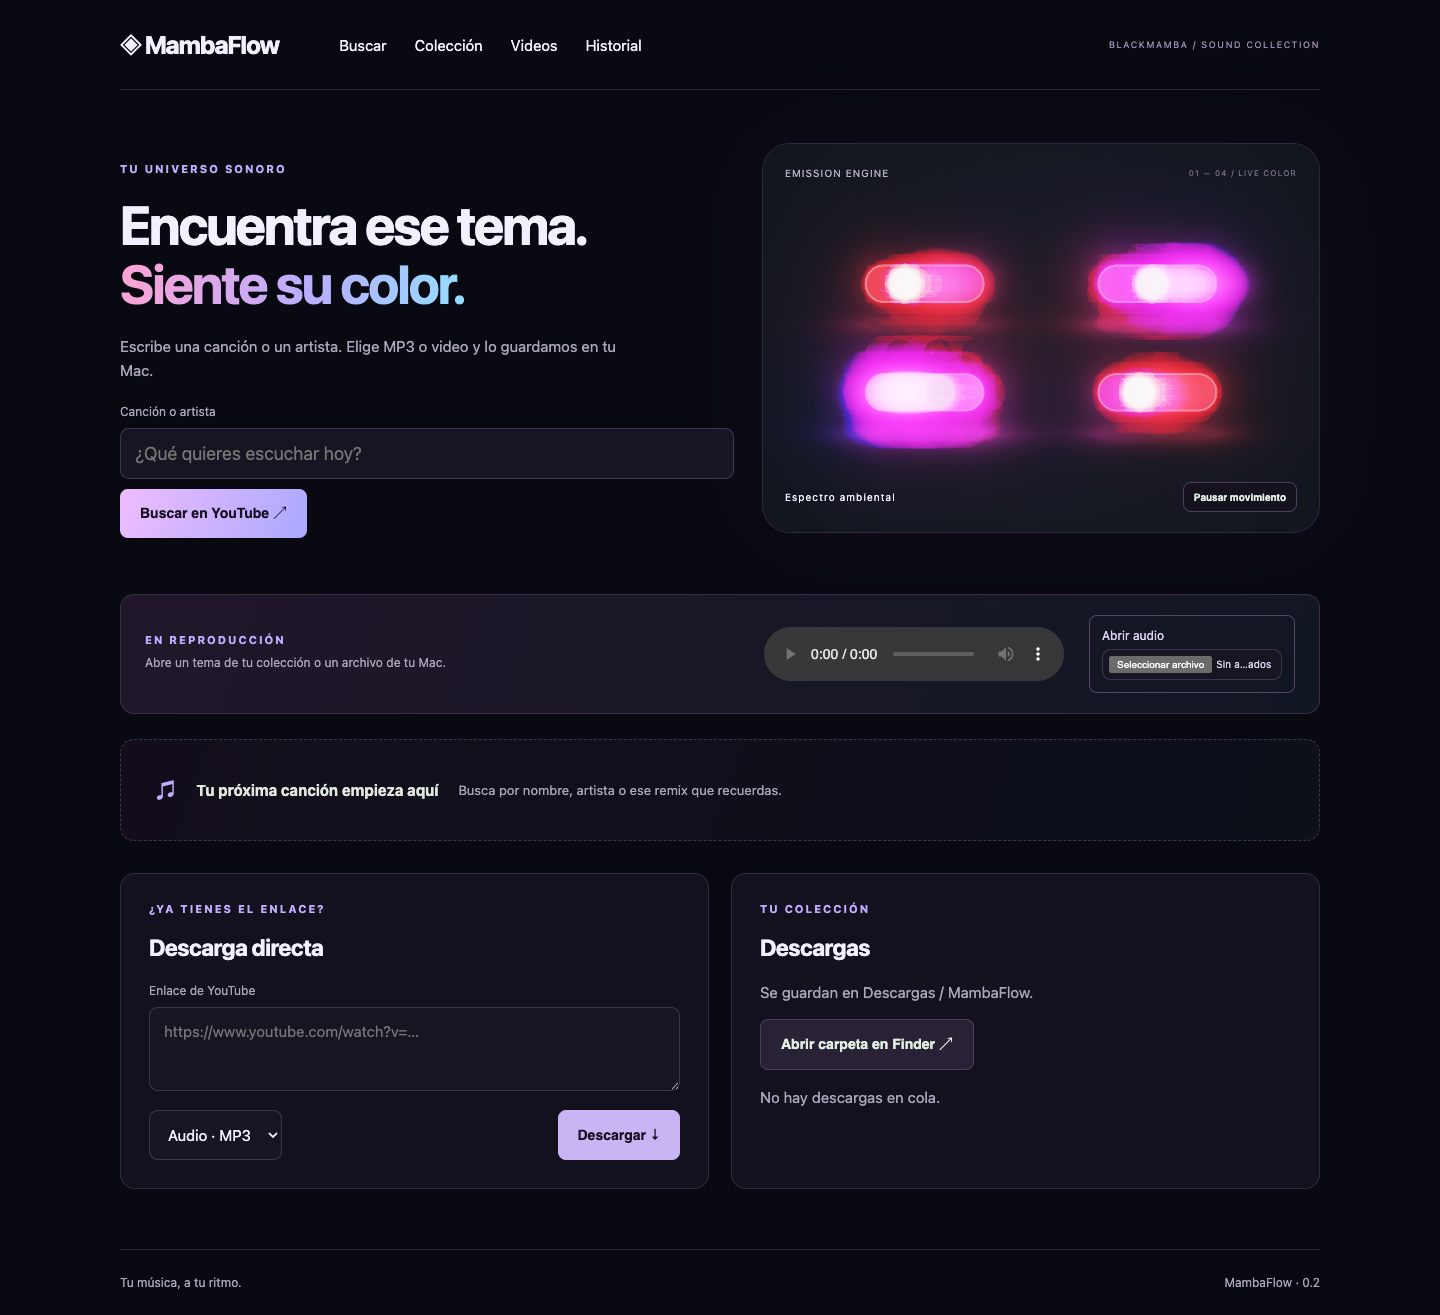
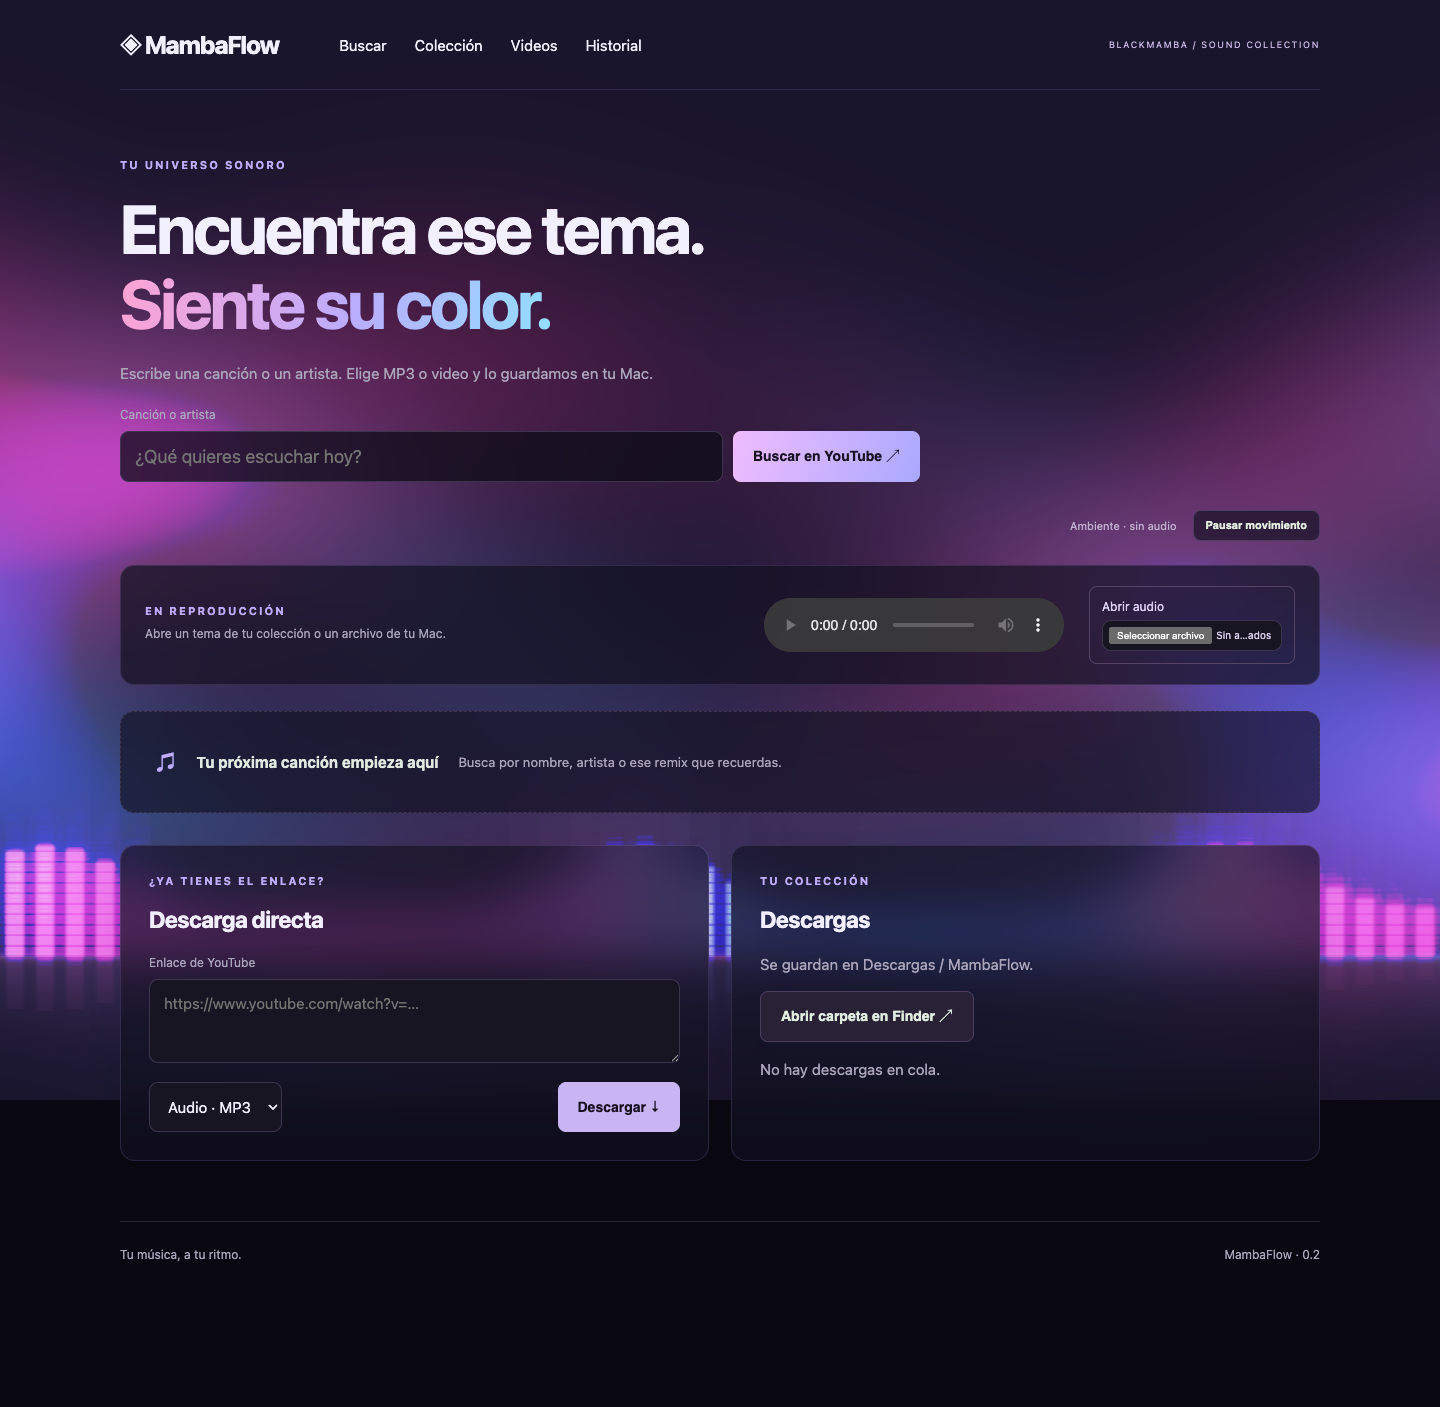
Replace visual switches with immersive spectrum background

diff --git a/apps/webui/static/emission.js b/apps/webui/static/emission.js
@@ -17,104 +17,41 @@ const extFloat=gl.getExtension('EXT_color_buffer_float');
   uniform vec2 uRes;
   uniform float uTime,uEmission,uAtmos,uReflect,uHueSpeed;
   uniform vec4 uBands,uKnobs;
-
-  float sat(float x){return clamp(x,0.,1.);}
-  float sdCapsule(vec2 p,vec2 a,vec2 b,float r){
-    vec2 pa=p-a,ba=b-a;
-    float h=clamp(dot(pa,ba)/dot(ba,ba),0.,1.);
-    return length(pa-ba*h)-r;
+  uniform float uSpectrum[48];
+  vec3 palette(float x){
+    return mix(vec3(.18,.48,1.),vec3(1.,.12,.55),.5+.5*sin(x*4.5+uTime*.12));
   }
-  float sdCircle(vec2 p,float r){return length(p)-r;}
-  float hash21(vec2 p){
-    p=fract(p*vec2(123.34,456.21));
-    p+=dot(p,p+45.32);
-    return fract(p.x*p.y);
-  }
-  vec3 hsv2rgb(vec3 c){
-    vec3 rgb=clamp(abs(mod(c.x*6.+vec3(0.,4.,2.),6.)-3.)-1.,0.,1.);
-    rgb=rgb*rgb*(3.-2.*rgb);
-    return c.z*mix(vec3(1.),rgb,c.y);
-  }
-  vec3 energyColor(vec2 p,float t,float lane){
-    float h=fract(.91 + lane*.115 + p.x*.22 + t*uHueSpeed*.15
-      + .035*sin(t*2.2+p.y*8.) + .018*sin(t*5.1-p.x*9.));
-    h = .54 + .44 * (.5 + .5 * sin(h * 6.28318));
-    return hsv2rgb(vec3(h,.88,1.15));
-  }
-
   void main(){
-    vec2 p=(vUv-.5)*vec2(uRes.x/uRes.y,1.0);
-    p.y*=-1.0;
-
-    vec3 c=vec3(.010,.014,.022);
-    float vign=1.-.36*dot(p,p);
-    c*=clamp(vign,.40,1.0);
-
-    vec2 centers[4]=vec2[4](
-      vec2(-.30,.14),vec2(.30,.14),vec2(-.30,-.14),vec2(.30,-.14)
-    );
-
-    for(int i=0;i<4;i++){
+    vec2 uv=vUv;
+    vec3 col=vec3(.013,.010,.030);
+    float energy=dot(uBands,vec4(.25));
+    // Broad drifting ribbons: light surrounds the content rather than becoming a control.
+    for(int i=0;i<3;i++){
       float fi=float(i);
-      vec2 q=p-centers[i];
-      float e=uBands[i];
-      float knob=uKnobs[i];
-
-      vec2 a=vec2(-.105,0.),b=vec2(.105,0.);
-      float r=.047;
-      float d=sdCapsule(q,a,b,r);
-      vec3 ec=energyColor(q,uTime,fi);
-
-      float wide=exp(-max(d,0.)*14.0);
-      float aura=exp(-max(d,0.)*31.0);
-      c+=ec*(.10*wide+.19*aura)*e*uAtmos;
-
-      vec2 rp=q;
-      rp.y=(rp.y-.105)*2.8;
-      float rd=sdCapsule(rp,a,b,r*1.05);
-      float floorFall=exp(-abs(q.y-.108)*18.0);
-      c+=ec*exp(-max(rd,0.)*18.0)*floorFall*e*uReflect*.24;
-
-      float shell=1.-smoothstep(.0016,.0035,abs(d));
-      vec3 shellCol=mix(vec3(.24,.27,.33),ec,sat(e*.95));
-      c+=shellCol*shell*.46;
-
-      float inside=1.-smoothstep(-.002,.001,d);
-      float ribbon=.50+.50*sin(q.x*27.0-uTime*(2.6+fi*.31)+sin(q.y*34.+uTime)*.75);
-      float plasma=inside*e*(.60+.40*ribbon);
-      c+=ec*plasma*uEmission*.52;
-
-      float hx=mix(-.10,.105,fract(uTime*(.14+.035*fi)+fi*.19));
-      float hot=exp(-pow((q.x-hx)*12.,2.)-pow(q.y*21.,2.))*e;
-      c+=ec*hot*uEmission*.72;
-
-      float kx=mix(-.098,.098,knob);
-      vec2 kp=q-vec2(kx,0.);
-      float kd=sdCircle(kp,.0395);
-      float km=1.-smoothstep(-.001,.001,kd);
-      vec3 knobOff=vec3(.90,.91,.95);
-      vec3 knobOn=vec3(.020,.024,.034);
-      vec3 kc=mix(knobOff,knobOn,sat(knob*1.10));
-      c=mix(c,kc,km);
-      float rim=1.-smoothstep(.001,.0035,abs(kd));
-      c+=mix(vec3(.58),ec,sat(e))*rim*.36;
-
-      // Beat sparks become denser as the corresponding band gets hotter.
-      float gate=smoothstep(.56,.94,e);
-      for(int j=0;j<5;j++){
-        float fj=float(j);
-        float seed=hash21(vec2(fi*11.7+fj,19.7));
-        float ang=6.28318*hash21(vec2(fi*3.1+fj,5.1));
-        float rr=.058+.070*hash21(vec2(fi+fj,8.3));
-        vec2 sp=vec2(cos(ang),sin(ang))*rr;
-        sp.x+=mix(-.035,.035,seed);
-        float sd=length(q-sp);
-        float s=exp(-sd*720.0)*gate*(.35+.65*fract(uTime*2.4+seed));
-        c+=energyColor(sp,uTime+fj*.09,fi)*s*1.7;
-      }
+      float center=.43+.22*sin(uv.x*3.6+uTime*.16+fi*1.7);
+      float dist=abs(uv.y-center);
+      float cloud=exp(-dist*dist/(.017+energy*.008));
+      float edge=pow(abs(uv.x-.5)*2.,1.3);
+      col+=palette(uv.x+fi*.5)*cloud*(.055+.10*energy)*(.3+edge);
     }
-
-    outColor=vec4(c,1.);
+    // 48 frequency columns; reflection and bloom inherit the reference's light treatment.
+    float slot=clamp(floor(uv.x*48.),0.,47.);
+    int idx=int(slot);
+    float level=uSpectrum[idx];
+    float height=.022+level*.24;
+    float x=abs(fract(uv.x*48.)-.5);
+    float width=1.-smoothstep(.20,.38,x);
+    float baseline=.13;
+    float bar=step(baseline,uv.y)*(1.-smoothstep(height,height+.005,uv.y-baseline))*width;
+    float segments=.45+.55*smoothstep(.12,.22,fract((uv.y-baseline)*105.));
+    vec3 tint=palette(uv.x*1.6);
+    col+=tint*bar*segments*(.25+level*.9);
+    float glow=exp(-pow((uv.y-baseline-height*.5)/(.03+height*.65),2.));
+    col+=tint*glow*(.025+level*.06);
+    float reflected=step(uv.y,baseline)*exp(-(baseline-uv.y)*28.)*width*step(baseline-uv.y,height*.5);
+    col+=tint*reflected*level*.14;
+    col+=palette(uv.x)*exp(-abs(uv.y-baseline)*350.)*.10;
+    outColor=vec4(col,1.);
   }`;
 
   const fsComposite=`#version 300 es
@@ -187,8 +124,8 @@ const extFloat=gl.getExtension('EXT_color_buffer_float');
   let rw=0,rh=0;
   function resize(){
     const dpr=Math.min(devicePixelRatio||1,1.25);
-    const w=Math.max(2,Math.floor(canvas.clientWidth*dpr));
-    const h=Math.max(2,Math.floor(canvas.clientHeight*dpr));
+    const w=Math.max(2,Math.min(1600,Math.floor(canvas.clientWidth*dpr)));
+    const h=Math.max(2,Math.min(1200,Math.floor(canvas.clientHeight*dpr)));
     if(w===rw&&h===rh)return;
     rw=w;rh=h;canvas.width=w;canvas.height=h;
     gl.bindTexture(gl.TEXTURE_2D,tex);
@@ -200,7 +137,7 @@ const extFloat=gl.getExtension('EXT_color_buffer_float');
   const U=(p,n)=>gl.getUniformLocation(p,n);
   const US={
     scene:{
-      res:U(pScene,'uRes'),time:U(pScene,'uTime'),bands:U(pScene,'uBands'),knobs:U(pScene,'uKnobs'),
+      res:U(pScene,'uRes'),time:U(pScene,'uTime'),bands:U(pScene,'uBands'),knobs:U(pScene,'uKnobs'),spectrum:U(pScene,'uSpectrum'),
       reflect:U(pScene,'uReflect'),hue:U(pScene,'uHueSpeed'),emission:U(pScene,'uEmission'),atmos:U(pScene,'uAtmos')
     },
     comp:{res:U(pComp,'uRes'),bloom:U(pComp,'uBloom'),scene:U(pComp,'uScene')}
@@ -232,6 +169,7 @@ toggle.addEventListener('click',()=>{paused=!paused;label();});
 let previous=0;let lost=false;const started=performance.now();
 canvas.addEventListener('webglcontextlost',e=>{e.preventDefault();lost=true;canvas.hidden=true;});
 const bands=[.4,.6,.3,.7],knobs=[.3,.5,.2,.6];
+const spectrum=new Float32Array(48);
 function draw(ms){
  requestAnimationFrame(draw);
  if(lost||document.hidden||ms-previous<33||(paused&&previous))return;
@@ -243,9 +181,19 @@ function draw(ms){
   if(active){const ranges=[[1,8],[8,80],[80,350],[1,400]][i];let sum=0;for(let n=ranges[0];n<ranges[1];n++)sum+=data[n]||0;energy=sum/(ranges[1]-ranges[0])/180;}
   bands[i]=bands[i]*.8+Math.min(1,energy)*.2;knobs[i]=bands[i];
  }
- document.querySelector('#visual-status').textContent=active?'Siguiendo tu música':'Espectro ambiental';
+ for(let i=0;i<48;i++){
+   let value=.08+.24*Math.pow(.5+.5*Math.sin(now*.8+i*.32),3);
+   if(active){
+     const low=Math.floor(Math.pow(i/48,2)*data.length);
+     const high=Math.max(low+1,Math.floor(Math.pow((i+1)/48,2)*data.length));
+     let sum=0;for(let k=low;k<high;k++)sum+=data[k]||0;
+     value=Math.min(1,sum/(high-low)/200);
+   }
+   spectrum[i]=spectrum[i]*.72+value*.28;
+ }
+ document.querySelector('#visual-status').textContent=active?'Vúmetro · siguiendo tu música':'Ambiente · sin audio';
  gl.bindTexture(gl.TEXTURE_2D,null);gl.bindFramebuffer(gl.FRAMEBUFFER,fbo);gl.viewport(0,0,rw,rh);gl.useProgram(pScene);
- gl.uniform2f(US.scene.res,rw,rh);gl.uniform1f(US.scene.time,now);gl.uniform4fv(US.scene.bands,bands);gl.uniform4fv(US.scene.knobs,knobs);
+ gl.uniform2f(US.scene.res,rw,rh);gl.uniform1f(US.scene.time,now);gl.uniform4fv(US.scene.bands,bands);gl.uniform4fv(US.scene.knobs,knobs);gl.uniform1fv(US.scene.spectrum,spectrum);
  gl.uniform1f(US.scene.reflect,params.reflect);gl.uniform1f(US.scene.hue,params.huespeed);gl.uniform1f(US.scene.emission,params.emission);gl.uniform1f(US.scene.atmos,params.atmos);gl.drawArrays(gl.TRIANGLES,0,3);
  gl.bindFramebuffer(gl.FRAMEBUFFER,null);gl.useProgram(pComp);gl.activeTexture(gl.TEXTURE0);gl.bindTexture(gl.TEXTURE_2D,tex);gl.uniform1i(US.comp.scene,0);gl.uniform2f(US.comp.res,rw,rh);gl.uniform1f(US.comp.bloom,params.bloom);gl.drawArrays(gl.TRIANGLES,0,3);
 }

diff --git a/apps/webui/static/flow.css b/apps/webui/static/flow.css
@@ -2,3 +2,6 @@
 :root{color-scheme:dark;--green:#c1adff;--muted:#aaa5bb}*{box-sizing:border-box}body{margin:0;background:#090911;color:#f2efff;font:15px -apple-system,BlinkMacSystemFont,sans-serif}header,main,footer{max-width:1200px;margin:auto}header{height:90px;display:flex;align-items:center;gap:60px;border-bottom:1px solid #292636}a{color:inherit;text-decoration:none}.brand{font-size:25px;font-weight:750;letter-spacing:-1px}nav{display:flex;gap:28px}nav a:hover{color:var(--green)}.local{margin-left:auto;font-size:11px;letter-spacing:2px;color:var(--green)}main{padding-bottom:60px}.hero{padding:66px 0 38px;max-width:950px}.eyebrow{font-size:11px;letter-spacing:2px;color:var(--green);font-weight:700}h1{font-size:clamp(34px,4.5vw,58px);line-height:1.1;letter-spacing:-2px;margin:20px 0}em{font-style:normal;color:var(--green)}p{color:var(--muted);line-height:1.6}label{display:block;font-size:12px;margin:22px 0 9px;color:var(--muted)}input,textarea,select{font:inherit;color:inherit;background:#171521;border:1px solid #3d354f;border-radius:9px;padding:14px;min-width:0}input:focus,textarea:focus,button:focus-visible,a:focus-visible{outline:2px solid var(--green);outline-offset:3px}.searchbar{display:flex;gap:10px}.searchbar input{flex:1;font-size:18px}button,.btn{background:var(--green);color:#171020;font:600 14px -apple-system,sans-serif;border:0;border-radius:8px;padding:14px 20px;cursor:pointer}button:hover{filter:brightness(1.1)}button:disabled{opacity:.5;cursor:wait}.secondary{color:#e0eddf;background:#292236;border:1px solid #4b3e60}.empty{border:1px dashed #40354d;border-radius:14px;padding:35px;display:flex;align-items:center;gap:20px;color:var(--green);font-size:22px}.empty strong{color:#e0e9df;font-size:15px}.empty span{font-size:13px;color:var(--muted)}.columns{display:grid;grid-template-columns:1fr 1fr;gap:22px;margin-top:32px}.card{background:#12111d;border:1px solid #302a40;border-radius:15px;padding:28px}h2{font-size:23px;letter-spacing:-.5px}textarea{width:100%;resize:vertical}.actions{display:flex;justify-content:space-between;margin-top:16px;gap:12px}.results{display:grid;grid-template-columns:1fr 1fr;gap:12px}.track{border:1px solid #302a40;border-radius:12px;padding:16px;display:grid;grid-template-columns:100px 1fr;gap:14px;background:#12111d}.track img{width:100px;height:72px;object-fit:cover;border-radius:6px}.track h3{font-size:14px;margin:0}.track p{font-size:12px;margin:6px 0}.track form{grid-column:2;display:flex;gap:8px}.track button{padding:9px 16px}small{font-size:12px;font-weight:400;color:var(--muted)}.job{border-top:1px solid #3d354f;padding:18px 0;overflow-wrap:anywhere}.job strong{font-size:12px}.job p{font-size:12px}progress{width:100%;accent-color:var(--green)}#notice{color:var(--green);margin:10px 0}footer{border-top:1px solid #292636;padding:25px 0;color:var(--muted);font-size:12px;display:flex;justify-content:space-between}table{width:100%;border-collapse:collapse}td,th{padding:12px;text-align:left;border-bottom:1px solid #302a40;overflow-wrap:anywhere}video,audio{max-width:100%}@media(max-width:1250px){header,main,footer{margin-left:28px;margin-right:28px}}@media(max-width:700px){header{gap:20px;flex-wrap:wrap;height:auto;padding:22px 0}.local{display:none}nav{gap:20px}.hero{padding-top:38px}h1{letter-spacing:-1px}.searchbar,.empty{flex-direction:column;align-items:stretch}.columns,.results{grid-template-columns:1fr}.card{padding:20px}.track{grid-template-columns:80px 1fr}.track img{width:80px}.empty{gap:12px}table{display:block;overflow-x:auto}footer{gap:20px}}@media(prefers-reduced-motion:reduce){*{scroll-behavior:auto!important}}
 
 .hero-stage{display:grid;grid-template-columns:1.1fr 1fr;align-items:center;gap:28px}.hero{padding:72px 0 48px}h1{font-size:clamp(34px,4.2vw,54px)}em{background:linear-gradient(100deg,#ffa3d3,#baadff 55%,#92dfff);background-clip:text;-webkit-background-clip:text;color:transparent}.hero p{max-width:530px}.searchbar{flex-wrap:wrap}.searchbar input{width:100%;flex-basis:100%}.searchbar button{background:linear-gradient(110deg,#efbcff,#aaa9ff);min-height:48px}.emission-stage{position:relative;height:390px;border-radius:28px;overflow:hidden;background:radial-gradient(ellipse at 35% 40%,#431f56,transparent 65%),radial-gradient(ellipse at 75% 70%,#123345,#090911 65%);border:1px solid #30273e;box-shadow:0 0 100px #63318615}.emission-stage canvas{width:100%;height:100%;display:block}.visual-caption,.spectrum-label{position:absolute;left:22px;right:22px;display:flex;justify-content:space-between;align-items:center;font-size:10px;letter-spacing:1px}.visual-caption{bottom:20px}.visual-caption button{font-size:10px;padding:8px 10px;background:#14101bb3}.spectrum-label{top:23px;color:#bbb2c9}.spectrum-label span{font-size:8px;color:#82748f}.listening{display:flex;align-items:center;gap:25px;padding:20px 24px;background:linear-gradient(110deg,#21172a,#111722);border:1px solid #3c2c47;border-radius:14px;margin:8px 0 25px}.listening>div{flex:1}.listening p{font-size:12px;margin:6px 0;overflow-wrap:anywhere}.file-label{margin:0;padding:12px;border:1px solid #564366;border-radius:8px;cursor:pointer;color:#ddd2f2;white-space:nowrap}.file-label input{display:block;max-width:180px;padding:6px;font-size:10px;margin-top:6px}.local{font-size:9px;letter-spacing:1.5px;color:#9d8db5}button{background:#c9b4f4}.empty{background:linear-gradient(110deg,#24152c66,#13243344)}.track:hover{border-color:#856ca7}.library-item{display:flex;gap:18px;align-items:center;padding:18px;border-bottom:1px solid #302a40}.library-item span{flex:1;overflow-wrap:anywhere}@media(max-width:900px){.hero-stage{grid-template-columns:1fr}.hero{padding-bottom:0}.emission-stage{height:290px;margin-bottom:20px}.listening{flex-wrap:wrap}.listening audio{width:100%}.listening>div{flex-basis:100%}}@media(max-width:700px){.local{display:none}.emission-stage{height:260px}nav{font-size:13px;gap:15px}.brand{font-size:22px}.spectrum-label span{display:none}}
+
+/* Immersive Emission: a full-window field of light with a frequency meter. */
+body{background:#090812;isolation:isolate}#emission{position:fixed;inset:0;width:100vw;height:100vh;z-index:-2;pointer-events:none}body:before{content:"";position:fixed;inset:0;z-index:-3;background:radial-gradient(ellipse at 0% 45%,#252153,transparent 60%),radial-gradient(ellipse at 100% 55%,#471330,transparent 65%);pointer-events:none}header{border-bottom-color:#c3a8ff20}.hero-stage{display:block}.hero{max-width:800px;padding:68px 0 28px}.hero h1{font-size:clamp(40px,5vw,68px);letter-spacing:-2.5px}.hero p{max-width:560px}.searchbar{flex-wrap:nowrap;max-width:800px}.searchbar input{flex-basis:auto;width:auto;min-width:0;background:#0c0b17bd;backdrop-filter:blur(16px)}.searchbar button{white-space:nowrap}.visual-controls{display:flex;align-items:center;justify-content:flex-end;gap:16px;font-size:11px;color:#c1b2cf;margin:0 0 24px}.visual-controls button{font-size:11px;padding:8px 12px;background:#120f20a8}.listening,.card,.track{background:#111020b0;backdrop-filter:blur(22px);-webkit-backdrop-filter:blur(22px);border-color:#c3a8ff24}.empty{background:#100f1ea0;backdrop-filter:blur(16px)}.listening{margin-bottom:26px}.card{box-shadow:0 10px 40px #00000015}footer{margin-bottom:120px;background:#09081250}.local{color:#c6b4e0}@media(max-width:700px){.hero{padding-top:44px}.hero h1{letter-spacing:-1.5px}.searchbar{flex-direction:column}.searchbar input{width:100%}.visual-controls{justify-content:space-between;gap:10px;margin-top:12px}.hero-stage{display:block}}

diff --git a/apps/webui/templates/index.html b/apps/webui/templates/index.html
@@ -1,1 +1,1 @@
-{% extends "base.html" %}{% block content %}<div class="hero-stage"><section class="hero"><div class="eyebrow">TU UNIVERSO SONORO</div><h1>Encuentra ese tema.<br><em>Siente su color.</em></h1><p>Escribe una canción o un artista. Elige MP3 o video y lo guardamos en tu Mac.</p><form id="search-form"><label for="q">Canción o artista</label><div class="searchbar"><input id="q" name="q" maxlength="200" required placeholder="¿Qué quieres escuchar hoy?" autocomplete="off"><button>Buscar en YouTube ↗</button></div></form></section><section class="emission-stage" aria-label="Visualizador de colores"><canvas id="emission" aria-hidden="true"></canvas><div class="visual-caption"><span id="visual-status">Espectro ambiental</span><button id="visual-toggle" class="secondary">Pausar movimiento</button></div><div class="spectrum-label">EMISSION ENGINE <span>01 — 04 / LIVE COLOR</span></div></section></div><section class="listening"><div><span class="eyebrow">EN REPRODUCCIÓN</span><p id="playing-title">Abre un tema de tu colección o un archivo de tu Mac.</p></div><audio id="collection-player" controls></audio><label class="file-label">Abrir audio<input id="local-audio" type="file" accept="audio/*"></label></section><div id="notice" role="status" aria-live="polite"></div><section id="search-results" aria-live="polite"><div class="empty">♫ <strong>Tu próxima canción empieza aquí</strong><span>Busca por nombre, artista o ese remix que recuerdas.</span></div></section><div class="columns"><section class="card"><div class="eyebrow">¿YA TIENES EL ENLACE?</div><h2>Descarga directa</h2><form method="post" action="/jobs"><label for="urls">Enlace de YouTube</label><textarea id="urls" name="urls" required placeholder="https://www.youtube.com/watch?v=…" rows="3"></textarea><div class="actions"><select name="mode" aria-label="Formato"><option value="audio">Audio · MP3</option><option value="video">Video · MP4</option></select><button>Descargar ↓</button></div></form></section><section class="card"><div class="eyebrow">TU COLECCIÓN</div><h2>Descargas</h2><p>Se guardan en Descargas / MambaFlow.</p><button id="open-folder" class="secondary">Abrir carpeta en Finder ↗</button><div id="queue">Cargando cola…</div></section></div><script src="/static/emission.js" defer></script>{% endblock %}
+{% extends "base.html" %}{% block content %}<canvas id="emission" aria-hidden="true"></canvas><div class="hero-stage"><section class="hero"><div class="eyebrow">TU UNIVERSO SONORO</div><h1>Encuentra ese tema.<br><em>Siente su color.</em></h1><p>Escribe una canción o un artista. Elige MP3 o video y lo guardamos en tu Mac.</p><form id="search-form"><label for="q">Canción o artista</label><div class="searchbar"><input id="q" name="q" maxlength="200" required placeholder="¿Qué quieres escuchar hoy?" autocomplete="off"><button>Buscar en YouTube ↗</button></div></form></section></div><div class="visual-controls"><span id="visual-status">Ambiente · sin audio</span><button id="visual-toggle" class="secondary" aria-pressed="true">Pausar movimiento</button></div><section class="listening"><div><span class="eyebrow">EN REPRODUCCIÓN</span><p id="playing-title">Abre un tema de tu colección o un archivo de tu Mac.</p></div><audio id="collection-player" controls></audio><label class="file-label">Abrir audio<input id="local-audio" type="file" accept="audio/*"></label></section><div id="notice" role="status" aria-live="polite"></div><section id="search-results" aria-live="polite"><div class="empty">♫ <strong>Tu próxima canción empieza aquí</strong><span>Busca por nombre, artista o ese remix que recuerdas.</span></div></section><div class="columns"><section class="card"><div class="eyebrow">¿YA TIENES EL ENLACE?</div><h2>Descarga directa</h2><form method="post" action="/jobs"><label for="urls">Enlace de YouTube</label><textarea id="urls" name="urls" required placeholder="https://www.youtube.com/watch?v=…" rows="3"></textarea><div class="actions"><select name="mode" aria-label="Formato"><option value="audio">Audio · MP3</option><option value="video">Video · MP4</option></select><button>Descargar ↓</button></div></form></section><section class="card"><div class="eyebrow">TU COLECCIÓN</div><h2>Descargas</h2><p>Se guardan en Descargas / MambaFlow.</p><button id="open-folder" class="secondary">Abrir carpeta en Finder ↗</button><div id="queue">Cargando cola…</div></section></div><script src="/static/emission.js" defer></script>{% endblock %}

diff --git a/docs/ARCHITECTURE.md b/docs/ARCHITECTURE.md
@@ -9,3 +9,5 @@
 `emission.js` adapta los shaders aportados en preview.html: render a textura, bloom y tone mapping. El mismo MediaElementSource se reutiliza al cambiar de archivo. No hay captura de micrófono. Render limitado a aproximadamente 30 fps y DPR 1.25; las pestañas ocultas no dibujan. Sin WebGL se conserva el fondo CSS y la aplicación sigue disponible.
 
 Referencias técnicas: [PyInstaller](https://pyinstaller.org/en/stable/usage.html), [yt-dlp](https://github.com/yt-dlp/yt-dlp#embedding-yt-dlp).
+
+La escena inmersiva sustituye los interruptores de la referencia por cintas de luz a pantalla completa y 48 columnas de frecuencia con reflexión. Sin audio muestra movimiento ambiental; durante reproducción usa el espectro FFT del reproductor.

diff --git a/README.md b/README.md
@@ -1,6 +1,6 @@
 # MambaFlow · Emission
 
-Busca una canción o artista en YouTube, guarda MP3 o video y escucha tu colección con un visualizador que reacciona al audio. Interfaz local en español, basada en el Emission Engine de BlackMamba: shaders de emisión, bloom y reflejos con una paleta rosa, violeta y cian.
+Busca una canción o artista en YouTube, guarda MP3 o video y escucha tu colección con un visualizador que reacciona al audio. Fondo inmersivo de color con vúmetro de 48 bandas. Interfaz local en español, basada en el Emission Engine de BlackMamba: shaders de emisión, bloom y reflejos con una paleta rosa, violeta y cian.
 
 ![MambaFlow](docs/desktop.png)
 
